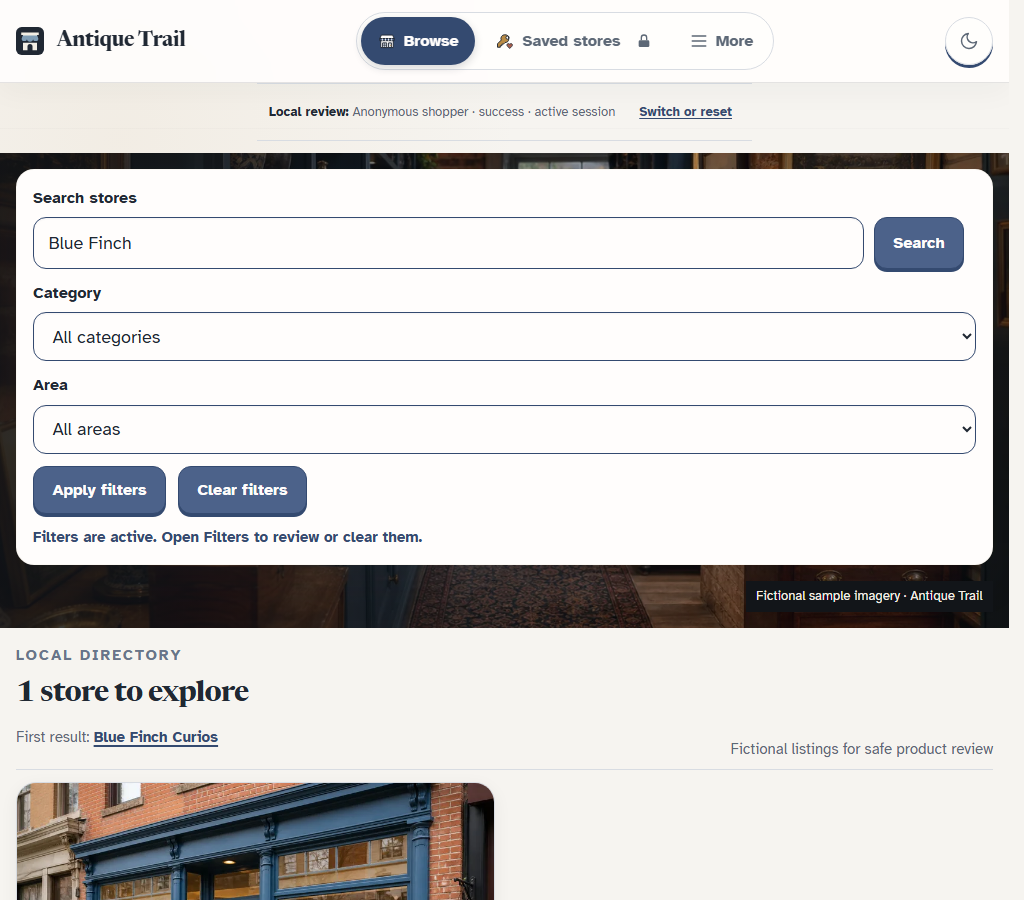
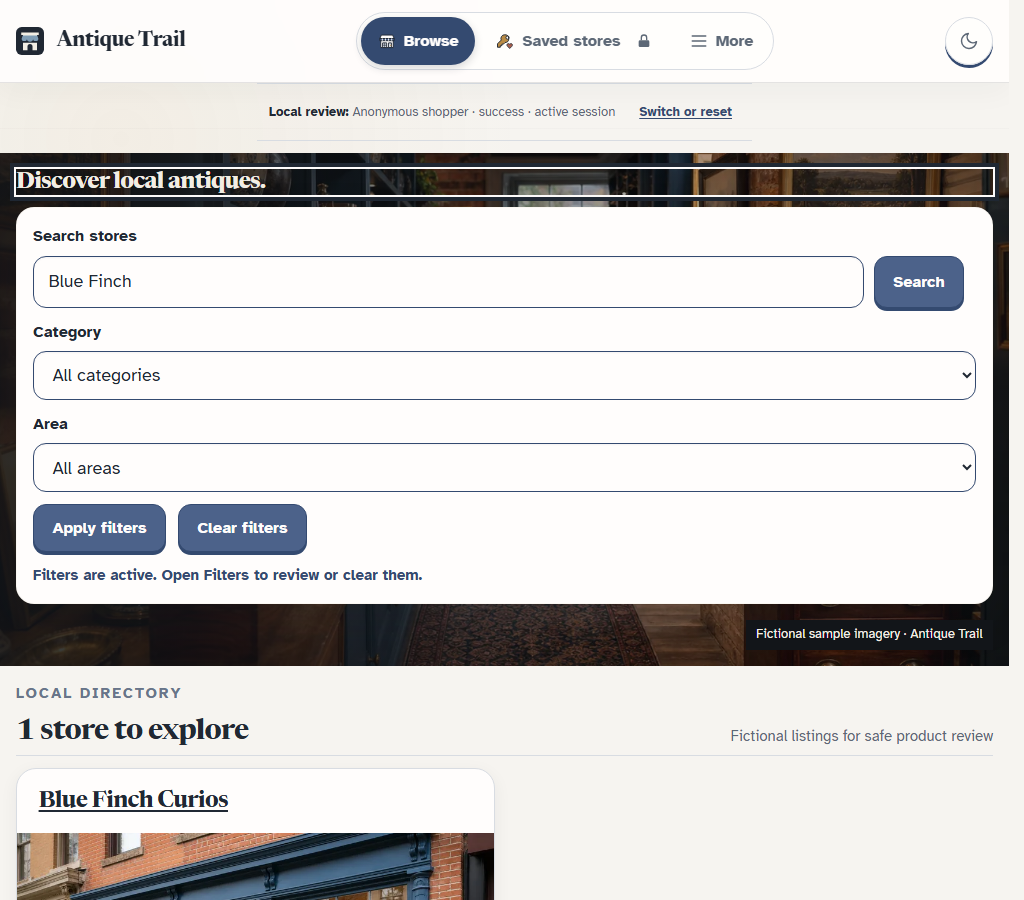
docs: refresh issue 469 viewport evidence

Changed region(s): [[0.0, 0.1556, 1.0, 1.0], [0.6875, 0.8089, 0.9688, 0.84], [0.9375, 0.3733, 0.9688, 0.4044]]

diff --git a/docs/evidence/issue-469/acceptance.md b/docs/evidence/issue-469/acceptance.md
@@ -3,71 +3,74 @@
 ## Candidate
 
 - Issue/spec: https://github.com/samarquis/AntiqueTrail/issues/469.
-- Owner/chat: issue #469 ticket owner; primary Codex task.
+- Owner/chat: `@samarquis` (issue assignee); Codex ticket task #469 on `codex/issue-469-browse-results-viewport`.
 - Risk: standard; synthetic catalog data and presentation behavior only.
 - Admission baseline: `c9bb80250d5087ace3638059da09cd628bc1fad6`.
 - Current PR base: `5391bd027b4f3df3a3fde85e02c284345d8fe1aa`.
-- Source candidate SHA: `17c14caa24097a314b7c983cf07c14c2a9d5ec9a`.
-- Reviewed source HEAD: `17c14caa24097a314b7c983cf07c14c2a9d5ec9a`; the pushed PR head also carries the following docs-only evidence update.
-- Diff fingerprint: `d79035879a8624f1f336007fb541ac08f23d0117` for the three application source files against the current PR base.
+- Source candidate SHA: `a190e85151d998ed0df57eaed7c1d537bd5f320a`.
+- Source PR head before this evidence-only update: `a190e85151d998ed0df57eaed7c1d537bd5f320a`.
+- Diff fingerprint: `1de55ce809a6123077d704d9ccbb3091028961bd` for changed application and regression-test files against the current PR base.
 - Branch: `codex/issue-469-browse-results-viewport` in its isolated ticket worktree.
-- Evidence captured at: 2026-10-02 12:34 CDT, local Windows Chromium and Vite review harness.
+- Evidence captured at: 2026-10-02 13:16 CDT, local Windows Chromium and Vite review harness.
 
 ## Scope
 
-After a search, the Browse hero enters compact results mode, moves imagery attribution clear of filter feedback, and hides editorial copy at stacked widths. Results heading identifies the first store with a direct link, so visitors can identify and open it while the catalog card image and density stay unchanged. Active feedback remains inside the search form.
+After a search, the Browse hero enters compact results mode, moves imagery attribution clear of filter feedback, and keeps the H1 visible at stacked widths while trimming editorial copy. Compact result cards put the actual linked title before the cover, so the first listing appears in the initial desktop viewport. Card columns and cover dimensions remain unchanged. At 320px, compact spacing and the decorative empty-state illustration are removed so recovery clears the bottom navigation. Active feedback remains inside the search form.
 
 Excluded: card density or image-size changes, catalog data changes, search/filter semantics, database/provider work, deployment, and production publication.
 
 The admission order remains #469 → #470 → #467. Refreshed `origin/main` is `5391bd0`; the intervening #477 and #478 commits touch review surfaces only and do not overlap this ticket's source files.
 
-The earlier full-suite run on source candidate `f987aa2` reported 1,079 passed, 9 failed, and 1 skipped across 165 files. Eight failures were 5-second timeouts; one unrelated PasswordReplacement assertion failed. Those nine cases passed when rerun serially across the five unrelated suites. The full suite was not rerun on source candidate `17c14caa`.
+GitHub CI on prior PR head `81a25b2e469722df12c97c50ea91fee5c2a43bfb` reported 1,089 passed, 1 failed, and 1 skipped. Its only failure was the Store Details focus test matching both the card link and the first-result summary link. The redundant summary link is removed, and the focus assertion is scoped to Store results. CI for current source candidate `a190e851` is pending. An earlier local full-suite run on `f987aa2` had 1,079 passed, 9 failed, and 1 skipped; eight failures were 5-second timeouts and one was an unrelated PasswordReplacement assertion. Those nine passed when rerun serially in the unrelated suites.
 
 ## Acceptance
 
-| Criterion                        | Observable pass condition                                                                  | Verification method                                 | Result/evidence                                                                                                                                                                                                                    |
-| -------------------------------- | ------------------------------------------------------------------------------------------ | --------------------------------------------------- | ---------------------------------------------------------------------------------------------------------------------------------------------------------------------------------------------------------------------------------- |
-| Search result visibility         | At 1276×720 and 1600×900, count and first listing identity appear in the initial viewport. | Chromium browser geometry and screenshots.          | Pass: count y=539–570; linked “First result: Blue Finch Curios” y=574–622. Card begins at y=643. Its own title remains below the viewport at y=1031; card density is unchanged.                                                    |
-| No-match recovery                | Count/state and recovery action appear without scrolling past the hero.                    | Chromium browser geometry and screenshots.          | Pass at both desktop sizes: heading y=585–616; Clear filters y=659–707. At stacked widths 1024 and 768, recovery is also visible at y=798–846 and y=604–652.                                                                       |
-| Filter feedback and URL behavior | Feedback stays attached to a stable control surface; search and clear retain URL behavior. | Chromium form/URL flow.                             | Pass: status remains inside the search form, attribution does not overlap it, Enter yields `/stores?q=Blue+Finch`, Clear returns to `/stores` with 12 stores, and compact results mode remains active.                             |
-| Accessibility and keyboard       | Controls remain labeled and keyboard operable.                                             | Chromium accessible-role queries and keyboard flow. | Pass for labeled search, Search button, first-result link, and keyboard Filters toggle. Dark theme, forced-colors, reduced-motion, and text-spacing override smoke checks showed no horizontal overflow or caption/status overlap. |
-| 320px reflow                     | Layout has no horizontal page scrolling.                                                   | Chromium document/client width comparison.          | Pass: document width 305px; client width 320px.                                                                                                                                                                                    |
+| Criterion                        | Observable pass condition                                                                       | Verification method                                                                           | Result/evidence                                                                                                                                                                                                                                       |
+| -------------------------------- | ----------------------------------------------------------------------------------------------- | --------------------------------------------------------------------------------------------- | ----------------------------------------------------------------------------------------------------------------------------------------------------------------------------------------------------------------------------------------------------- |
+| Search result visibility         | At 1276×720 and 1600×900, count and the actual first card title appear in the initial viewport. | Chromium browser geometry and screenshots.                                                    | Pass: count y=539–570; actual linked “Blue Finch Curios” H2 y=592–656 and link y=600–648. Cover begins below the title and remains 538×359px; grid stays two columns.                                                                                 |
+| No-match recovery                | Count/state and recovery action appear without scrolling past the full hero.                    | Chromium browser geometry and screenshots.                                                    | Pass at 1276×720 and 1600×900: heading y=585–616; Clear filters y=659–707. At 1024×900 and 768×900, Clear filters is y=837–885 and y=642–690. At 320×740, heading is y=495–526 and Clear filters y=557–605, above bottom navigation at y=623.         |
+| Filter feedback and URL behavior | Feedback stays attached to a stable control surface; search and clear retain URL behavior.      | Chromium form/URL flow.                                                                       | Pass: status remains inside the search form, attribution does not overlap it, Enter yields `/stores?q=Blue+Finch`, Clear returns to `/stores` with 12 stores, and compact results mode remains active.                                                |
+| Accessibility and keyboard       | Controls remain labeled and keyboard operable; one visible page H1 remains at each breakpoint.  | Chromium accessible-role queries and keyboard flow.                                           | Pass: one visible H1, labeled search, Search button, card-title link, and keyboard Filters toggle at each viewport. Dark theme, forced-colors, reduced-motion, and text-spacing smoke checks showed no horizontal overflow or caption/status overlap. |
+| 200% reflow                      | Narrow layout reflows at the resulting CSS viewport without horizontal scrolling.               | Chromium at a 638×360 CSS viewport and DPR 2, equivalent to 1276×720 physical pixels at 200%. | Pass: narrow breakpoints active, one H1 available, document width 623px versus 638px viewport. This emulates the resulting viewport; browser zoom UI itself was not toggled.                                                                          |
+| 320px reflow                     | Layout has no horizontal page scrolling.                                                        | Chromium document/client width comparison.                                                    | Pass: document width 305px; client width 320px.                                                                                                                                                                                                       |
 
 ### Rendered evidence
 
 Screenshots use the local review harness, which adds a synthetic “Local review” status banner. Browser console and page errors were empty.
 
-| View                       | Before                                                   | After                                                             |
-| -------------------------- | -------------------------------------------------------- | ----------------------------------------------------------------- |
-| Search, 1276×720           | ![Before search at 1276×720](before-search-1276x720.png) | ![After search at 1276×720](search-1276x720.png)                  |
-| Empty, 1276×720            | ![Before empty at 1276×720](before-empty-1276x720.png)   | ![After empty at 1276×720](empty-1276x720.png)                    |
-| Search, 1600×900           | —                                                        | ![After search at 1600×900](search-1600x900.png)                  |
-| Empty, 1600×900            | —                                                        | ![After empty at 1600×900](empty-1600x900.png)                    |
-| Search and empty, 1024×900 | —                                                        | [Search](search-1024x900.png) · [Empty state](empty-1024x900.png) |
-| Search and empty, 768×900  | —                                                        | [Search](search-768x900.png) · [Empty state](empty-768x900.png)   |
-| Search and empty, 320×740  | —                                                        | [Search](search-320x740.png) · [Empty state](empty-320x740.png)   |
+| View                       | Before                                                   | After                                                                             |
+| -------------------------- | -------------------------------------------------------- | --------------------------------------------------------------------------------- |
+| Search, 1276×720           | ![Before search at 1276×720](before-search-1276x720.png) | ![After search at 1276×720](search-1276x720.png)                                  |
+| Empty, 1276×720            | ![Before empty at 1276×720](before-empty-1276x720.png)   | ![After empty at 1276×720](empty-1276x720.png)                                    |
+| Search, 1600×900           | —                                                        | ![After search at 1600×900](search-1600x900.png)                                  |
+| Empty, 1600×900            | —                                                        | ![After empty at 1600×900](empty-1600x900.png)                                    |
+| Search and empty, 1024×900 | —                                                        | [Search](search-1024x900.png) · [Empty state](empty-1024x900.png)                 |
+| Search and empty, 768×900  | —                                                        | [Search](search-768x900.png) · [Empty state](empty-768x900.png)                   |
+| Search and empty, 320×740  | —                                                        | [Search](search-320x740.png) · [Empty state](empty-320x740.png)                   |
+| 200% effective viewport    | —                                                        | [Search](zoom200-search-1276x720.png) · [Empty state](zoom200-empty-1276x720.png) |
 
 ## Verification
 
-| Layer                       | Command or flow                                                                                                                          | Result                                                                                                                                                                                                                               | Applies to SHA/environment                                  |
-| --------------------------- | ---------------------------------------------------------------------------------------------------------------------------------------- | ------------------------------------------------------------------------------------------------------------------------------------------------------------------------------------------------------------------------------------ | ----------------------------------------------------------- |
-| Focused tests               | `npx vitest run --maxWorkers=1 src/features/catalog/liveEditorial.test.tsx src/features/catalog/countLabels.test.tsx`                    | 8 passed. The first-result test failed before implementation, then passed with the new linked identity.                                                                                                                              | Source candidate `17c14caa`, local Windows checkout.        |
-| Typecheck                   | `npm run typecheck`                                                                                                                      | Passed.                                                                                                                                                                                                                              | Source candidate `17c14caa`.                                |
-| Lint                        | `npm run lint`                                                                                                                           | 0 errors; 16 existing warnings, none in changed files.                                                                                                                                                                               | Source candidate `17c14caa`.                                |
-| Format                      | `npm run format`                                                                                                                         | Passed.                                                                                                                                                                                                                              | Source candidate `17c14caa`.                                |
-| Release tests               | `npm run test:release`                                                                                                                   | 164 passed.                                                                                                                                                                                                                          | Source candidate `17c14caa`.                                |
-| Build and media             | `npm run build`; `node scripts/verify-seed-media.mjs --built-root dist`                                                                  | Build passed; 10 paths verified, 0 errors.                                                                                                                                                                                           | Source candidate `17c14caa`, local.                         |
-| Layout detector             | `npx impeccable detect --json --scope layout src/features/catalog/components.tsx src/app/styles.css`                                     | No findings (`[]`).                                                                                                                                                                                                                  | Source candidate `17c14caa`.                                |
-| Desktop/mobile UI           | Search, no-match, clear, URL, keyboard Filters toggle, and caption/status overlap at 1600×900, 1276×720, 1024×900, 768×900, and 320×740. | All scripted checks passed; no horizontal overflow or console/page errors.                                                                                                                                                           | Source candidate `17c14caa`, local Chromium review harness. |
-| Accessibility scope         | Chromium checked labels, keyboard toggle, dark theme state, forced-colors and reduced-motion media states, and text-spacing overrides.   | Smoke checks passed. NVDA/VoiceOver screen readers and the current/previous Chrome, Edge, Firefox, Safari, iOS Safari, and Android browser matrix were not run; unverified. Contrast was not separately audited under forced colors. | Local Chromium only.                                        |
-| Full unit suite             | `npm run test`                                                                                                                           | Not run on source candidate `17c14caa`; prior candidate outcome is recorded above and is not presented as final-candidate proof.                                                                                                     | Unverified on final source candidate.                       |
-| Database/provider lifecycle | Not in issue scope.                                                                                                                      | Not run.                                                                                                                                                                                                                             | Unverified.                                                 |
-| Canonical production route  | Deployment is separate and not authorized for this ticket.                                                                               | Not run.                                                                                                                                                                                                                             | Unverified.                                                 |
+| Layer                       | Command or flow                                                                                                                                                        | Result                                                                                                                                                                                                                               | Applies to SHA/environment                                  |
+| --------------------------- | ---------------------------------------------------------------------------------------------------------------------------------------------------------------------- | ------------------------------------------------------------------------------------------------------------------------------------------------------------------------------------------------------------------------------------ | ----------------------------------------------------------- |
+| Focused tests               | `npx vitest run --maxWorkers=1 src/features/catalog/liveEditorial.test.tsx src/features/catalog/components.test.tsx`                                                   | 38 passed, including compact card-title order and restored-focus coverage.                                                                                                                                                           | Source candidate `a190e851`, local Windows checkout.        |
+| Typecheck                   | `npm run typecheck`                                                                                                                                                    | Passed.                                                                                                                                                                                                                              | Source candidate `a190e851`.                                |
+| Lint                        | `npm run lint`                                                                                                                                                         | 0 errors; 16 existing warnings, none in changed files.                                                                                                                                                                               | Source candidate `a190e851`.                                |
+| Format                      | `npx prettier --check src/app/styles.css src/features/catalog/components.tsx src/features/catalog/components.test.tsx src/features/catalog/liveEditorial.test.tsx`     | Passed.                                                                                                                                                                                                                              | Source candidate `a190e851`.                                |
+| Release tests               | `npm run test:release`                                                                                                                                                 | 164 passed.                                                                                                                                                                                                                          | Source candidate `a190e851`.                                |
+| Build and media             | `npm run build`; `node scripts/verify-seed-media.mjs --built-root dist`                                                                                                | Build passed; 10 paths verified, 0 errors.                                                                                                                                                                                           | Source candidate `a190e851`, local.                         |
+| Layout detector             | `npx impeccable detect --json --scope layout src/features/catalog/components.tsx src/app/styles.css`                                                                   | No findings (`[]`).                                                                                                                                                                                                                  | Source candidate `a190e851`.                                |
+| Desktop/mobile UI           | Search, no-match, clear, URL, keyboard Filters toggle, visible H1, first card title, and caption/status overlap at 1600×900, 1276×720, 1024×900, 768×900, and 320×740. | All scripted checks passed; no horizontal overflow or console/page errors. At 1276×720 and 1600×900 the actual first card H2 is visible before its unchanged cover; at 320×740 Clear filters ends 18px above bottom navigation.      | Source candidate `a190e851`, local Chromium review harness. |
+| 200% reflow                 | Chromium checked search and empty state at a 638×360 CSS viewport with DPR 2.                                                                                          | Narrow layout active; one H1 remains visible; no horizontal overflow. Browser zoom UI itself was not toggled.                                                                                                                        | Source candidate `a190e851`, local Chromium.                |
+| Accessibility scope         | Chromium checked labels, one H1 at every tested width, keyboard toggle, dark theme, forced colors, reduced motion, text-spacing override, and 200% effective viewport. | Smoke checks passed. NVDA/VoiceOver screen readers and the current/previous Chrome, Edge, Firefox, Safari, iOS Safari, and Android browser matrix were not run; unverified. Contrast was not separately audited under forced colors. | Local Chromium only.                                        |
+| Full unit suite             | GitHub Actions CI on the pushed PR head.                                                                                                                               | CI rerun for source candidate `a190e851` is pending.                                                                                                                                                                                 | Unverified on source candidate until CI completes.          |
+| Database/provider lifecycle | Not in issue scope.                                                                                                                                                    | Not run.                                                                                                                                                                                                                             | Unverified.                                                 |
+| Canonical production route  | Deployment is separate and not authorized for this ticket.                                                                                                             | Not run.                                                                                                                                                                                                                             | Unverified.                                                 |
 
 ## TDD and Project Reflection preflight
 
-- Red proof: the first-result-link test failed because no linked identity existed beside the count.
-- Green proof: all 8 focused catalog tests passed after implementation.
+- Red proof: original viewport checks showed the first card title below the fold, the H1 clipped at stacked widths, and 320px no-match recovery below bottom navigation.
+- Green proof: all 38 focused catalog tests passed, and Chromium confirmed the actual first card title, visible H1, and 320px recovery positions.
 - Applied `L-20260927-02`: waited for the actual rendered content node before measuring layout.
 - Applied `L-20260930-01`: omitted workstation and vault paths from this shared evidence.
 - Applied `L-20260930-02`: verify the live linked-issue state after merge and close it explicitly if still open.
@@ -78,10 +81,10 @@ Screenshots use the local review harness, which adds a synthetic “Local review
 Reproduce from the candidate checkout:
 
 ```powershell
-git diff --binary --full-index 5391bd027b4f3df3a3fde85e02c284345d8fe1aa...HEAD -- src/app/styles.css src/features/catalog/components.tsx src/features/catalog/liveEditorial.test.tsx | git hash-object --stdin
+git diff --binary --full-index 5391bd027b4f3df3a3fde85e02c284345d8fe1aa -- src/app/styles.css src/features/catalog/components.tsx src/features/catalog/liveEditorial.test.tsx src/features/catalog/components.test.tsx | git hash-object --stdin
 ```
 
-Current source-only fingerprint: `d79035879a8624f1f336007fb541ac08f23d0117`.
+Current source-only fingerprint: `1de55ce809a6123077d704d9ccbb3091028961bd`.
 
 ## Independent review and gates
 
